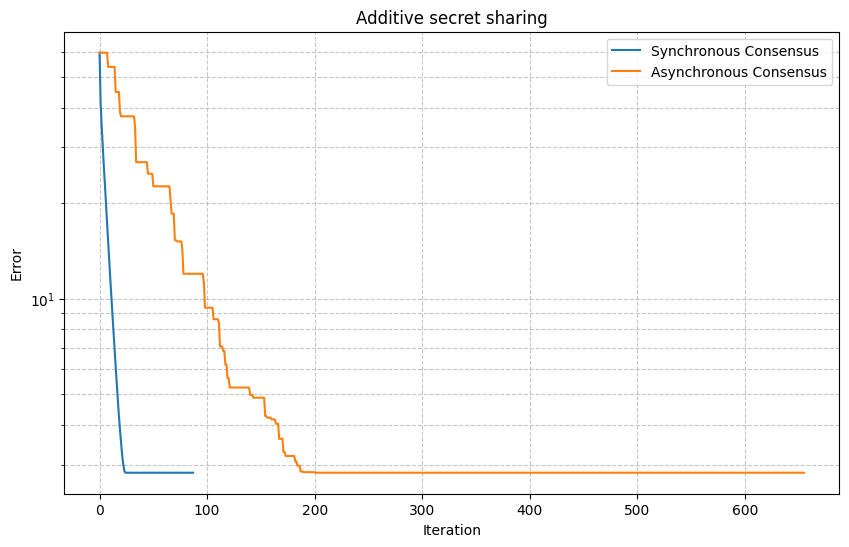
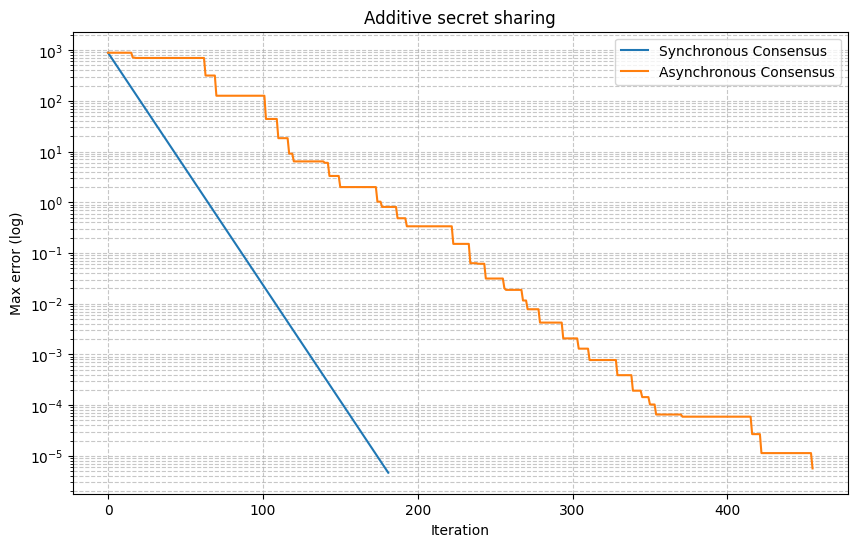
works

Changed region(s): [[0.0, 0.0, 1.0, 0.9945]]

diff --git a/main.py b/main.py
@@ -9,7 +9,7 @@ from src.consensus import async_consensus, sync_consensus
 from src.graph import Graph
 from src.privacy import apply_differential_privacy
 from src.secret_sharing import additive_secret_share_matrix
-from src.utils import avg_error, plot_convergence, avg_error
+from src.utils import avg_error, plot_dp_comparison, plot_convergence, avg_error
 
 
 def main():
@@ -33,37 +33,55 @@ def main():
 
     if args.mode == "secret":
         additive_secret_share_matrix(g)
+        shared_vals = np.array([n.val for n in g.nodes])
+
+        print("Running Secret Sharing (Sync)...")
+        sync_history = sync_consensus(g)
+
+        for i, node in enumerate(g.nodes):
+            node.val = shared_vals[i]
+        async_history = async_consensus(g)
+
+        plot_convergence(
+            "Additive secret sharing",
+            avg_error(sync_history, true_avg),
+            avg_error(async_history, true_avg),
+            filename="img/comparison.png",
+        )
     else:
-        apply_differential_privacy(g, epsilon=1.0)
-    print(
-        f"Graph Topology: {args.top}, Nodes: {args.nodes}, True Average: {true_avg:.4f}"
-    )
+        # --- DP MODE: ASS vs Multiple DP Distributions ---
+        # 1. Baseline: Additive Secret Sharing
+        for node in g.nodes:
+            node.val = node.initial_val  # Reset
+        additive_secret_share_matrix(g)
+        ass_history = sync_consensus(g)
 
-    # save history of initial vals
-    initial_shared_vals = np.array([n.val for n in g.nodes])
+        # 2. DP: Laplace
+        for node in g.nodes:
+            node.val = node.initial_val  # Reset
+        apply_differential_privacy(g, epsilon=1.0, distribution="laplace")
+        laplace_history = sync_consensus(g)
 
-    # synchronous
-    print("Running synchornous...")
-    for i, node in enumerate(g.nodes):
-        # reset nodes to s_i^r
-        node.val = initial_shared_vals[i]
-    sync_history = sync_consensus(g)
+        # 3. DP: Gaussian
+        for node in g.nodes:
+            node.val = node.initial_val  # Reset
+        apply_differential_privacy(g, epsilon=1.0, distribution="gaussian")
+        gaussian_history = sync_consensus(g)
 
-    # asynchronous
-    print("Running asynchronous...")
-    for i, node in enumerate(g.nodes):
-        # reset nodes to s_i^r
-        node.val = initial_shared_vals[i]
-    async_history = async_consensus(g)
-
-    outfile = "img/comparison.png"
-
-    plot_convergence(
-        "Additive secret sharing",
-        avg_error(sync_history, true_avg),
-        avg_error(async_history, true_avg),
-        filename=outfile,
-    )
+        # 4. DP: Uniform
+        for node in g.nodes:
+            node.val = node.initial_val
+        apply_differential_privacy(g, epsilon=1.0, distribution="uniform")
+        uniform_history = sync_consensus(g)
+        print("Plotting comparison with separate Laplace and Gaussian lines...")
+        plot_dp_comparison(
+            "ASS vs Laplace vs Gaussian DP",
+            avg_error(ass_history, true_avg),
+            avg_error(laplace_history, true_avg),
+            avg_error(gaussian_history, true_avg),
+            avg_error(uniform_history, true_avg),
+            filename="img/dp_detailed_comparison.png",
+        )
 
     g.draw()
 

diff --git a/src/utils.py b/src/utils.py
@@ -8,14 +8,39 @@ def set_seed(x: int = 42):
     np.random.seed(x)
 
 
-def plot_convergence(title, sync_errors, async_errors, filename="img/comparison.png"):
+def plot_dp_comparison(
+    title, ass_err, laplace_err, gaussian_err, uniform_err, filename="img/dp"
+):
     plt.figure(figsize=(10, 6))
-    plt.plot(sync_errors, label="Synchronous Consensus")
-    plt.plot(async_errors, label="Asynchronous Consensus")
+    plt.plot(ass_err, label="Secret Sharing (ASS)", color="blue", linewidth=2)
+    plt.plot(laplace_err, label="DP: Laplace", color="red", linestyle="--")
+    plt.plot(gaussian_err, label="DP: Gaussian", color="green", linestyle="--")
+    plt.plot(uniform_err, label="DP: Uniform", color="purple", linestyle="--")
 
     plt.yscale("log")
     plt.xlabel("Iteration")
-    plt.ylabel("Error")
+    plt.ylabel("Max Error (log)")
+    plt.title(title)
+    # plt.grid(True, which="both", ls="--", alpha=0.7)
+    plt.legend()
+    plt.savefig(filename, bbox_inches="tight")
+    plt.close()
+
+
+def plot_convergence(title, line1_errors, line2_errors, filename="img/comparison.png"):
+    plt.figure(figsize=(10, 6))
+
+    if "Differential" in title:
+        label1, label2 = "Secret Sharing (ASS)", "Differential Privacy (DP)"
+    else:
+        label1, label2 = "Synchronous Consensus", "Asynchronous Consensus"
+
+    plt.plot(line1_errors, label=label1)
+    plt.plot(line2_errors, label=label2)
+
+    plt.yscale("log")
+    plt.xlabel("Iteration")
+    plt.ylabel("Max error (log)")
     plt.title(title)
     plt.grid(True, which="both", ls="--", alpha=0.7)
     plt.legend()
@@ -27,6 +52,6 @@ def avg_error(history, true_avg):
     errors = []
     for vals in history:
         vals = np.array(vals)
-        mean_abs_error = np.mean(np.abs(vals - true_avg))
-        errors.append(mean_abs_error)
+        max_err = np.max(np.abs(vals - true_avg))
+        errors.append(max_err)
     return errors

diff --git a/src/consensus.py b/src/consensus.py
@@ -2,7 +2,7 @@ from src.graph import Graph
 import random
 import numpy as np
 
-tol = 0.001
+tol = 0.00001
 
 
 def sync_consensus(graph: Graph, max_iters=2000, tol=tol):
